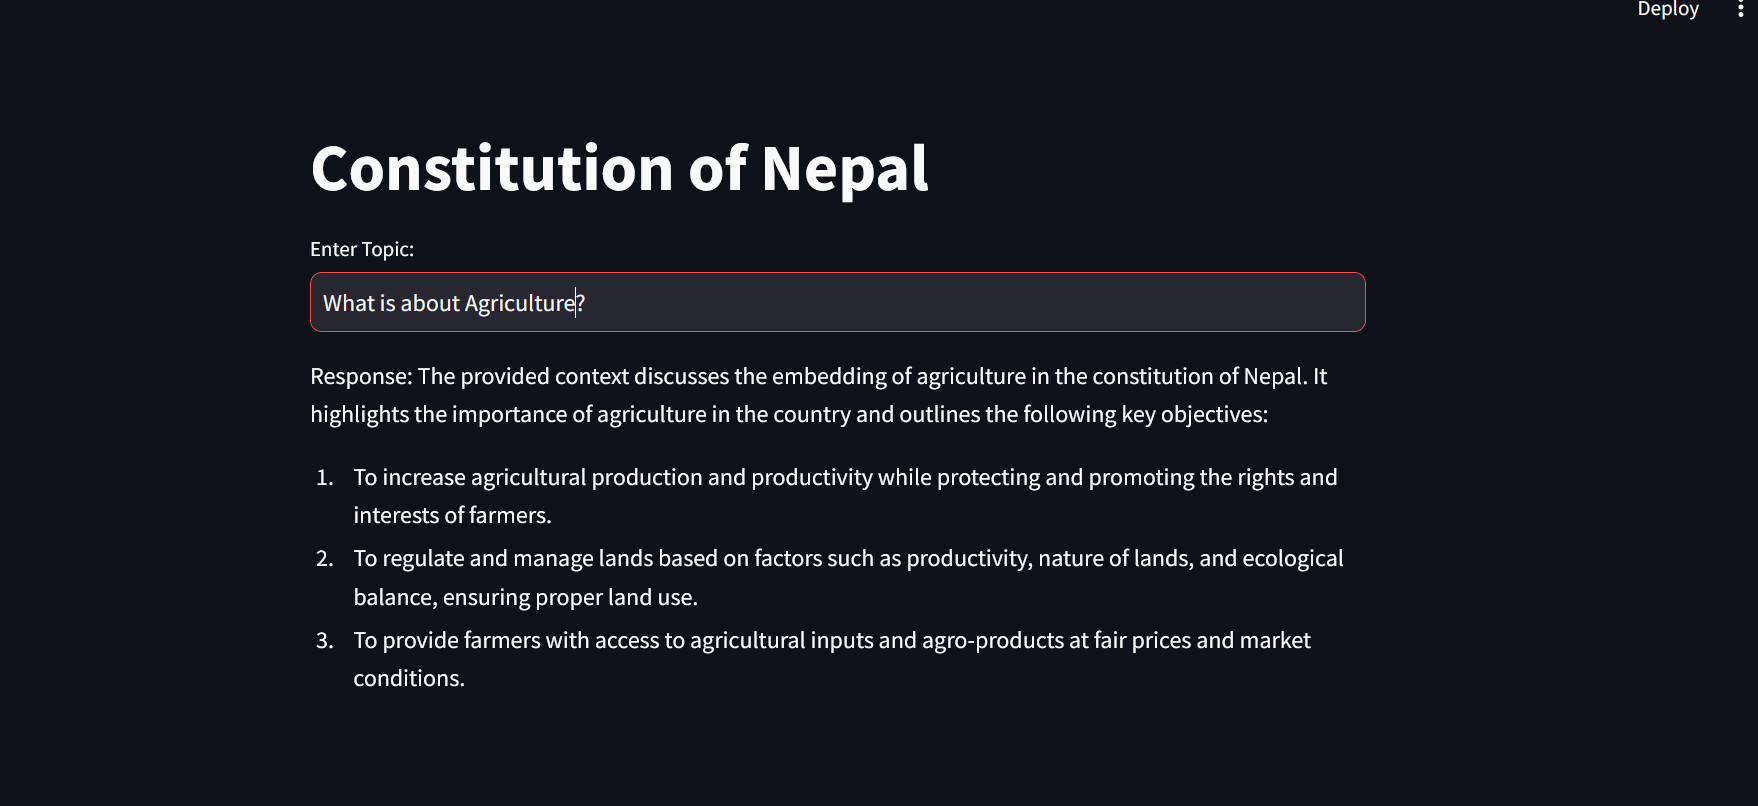
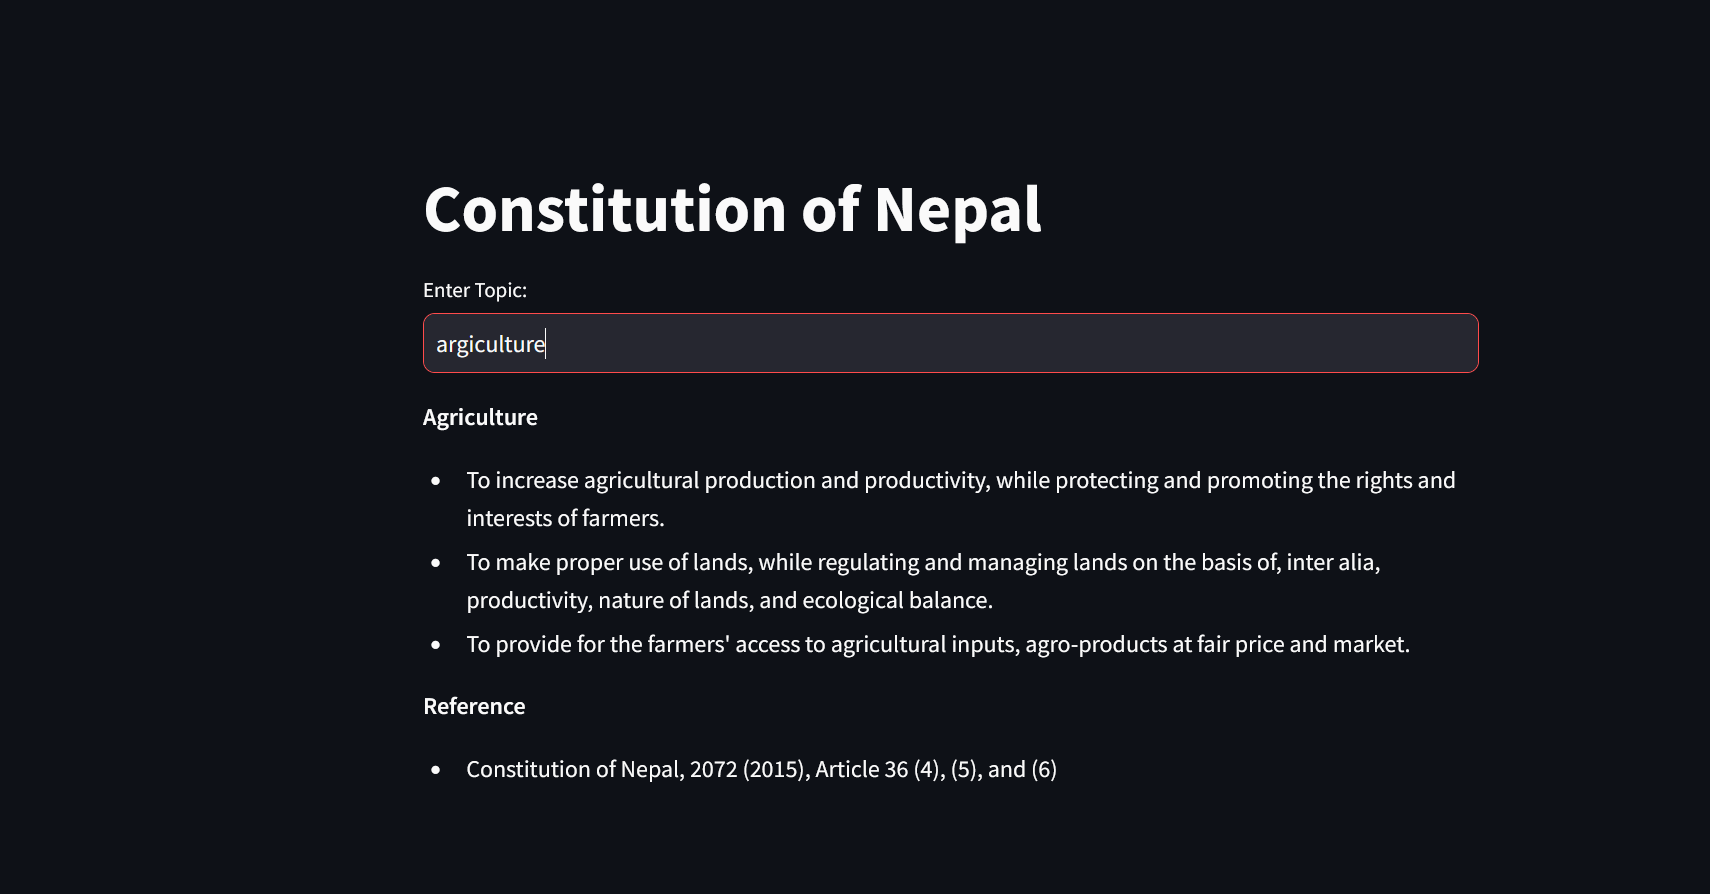
*prompt changes

diff --git a/app.py b/app.py
@@ -50,7 +50,7 @@ model = ChatGoogleGenerativeAI(model="gemini-pro", temperature=0.3)
 
 prompt_template = PromptTemplate(
     input_variables=["context", "question"],
-    template="Based on the following context:{context}\nAnswer the question: in detail in bullet points {question}\nif the answer is not in the context simply say i don't know"
+    template="Based on the following context:{context}\nAnswer the question: in detail in bullet points {question}\nprovide origional reference \nif the answer is not in the context simply say i don't know"
 )
 
 retriever = get_vector_retriever()
@@ -67,7 +67,7 @@ rag_chain = (
 question = st.text_input('Enter Topic:')
 if question:
     answer = rag_chain.invoke(question)
-    st.write(f'Response: {answer}')
+    st.write(answer)
 
 
 

diff --git a/readme.md b/readme.md
@@ -1,7 +1,8 @@
 ##Simple Example of RAG Application using MongoDB and Gemini API 
 Constitution of Nepal
 For educational purpose Free tier of Gemini and MongoDB used for this project
-![Screen-shot](image-1.png)
-![Agriculture](image.png)
+![agriculture](image.png)
+![human rights](image-1.png)
+
 
 Demo App:- https://constitutionofnepal.streamlit.app/
